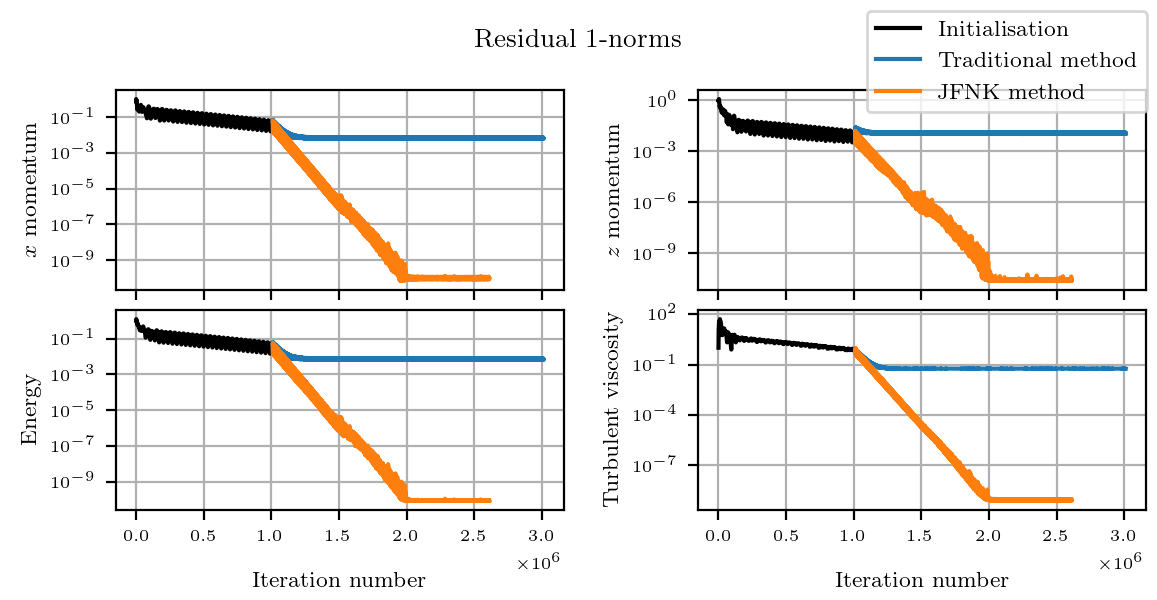
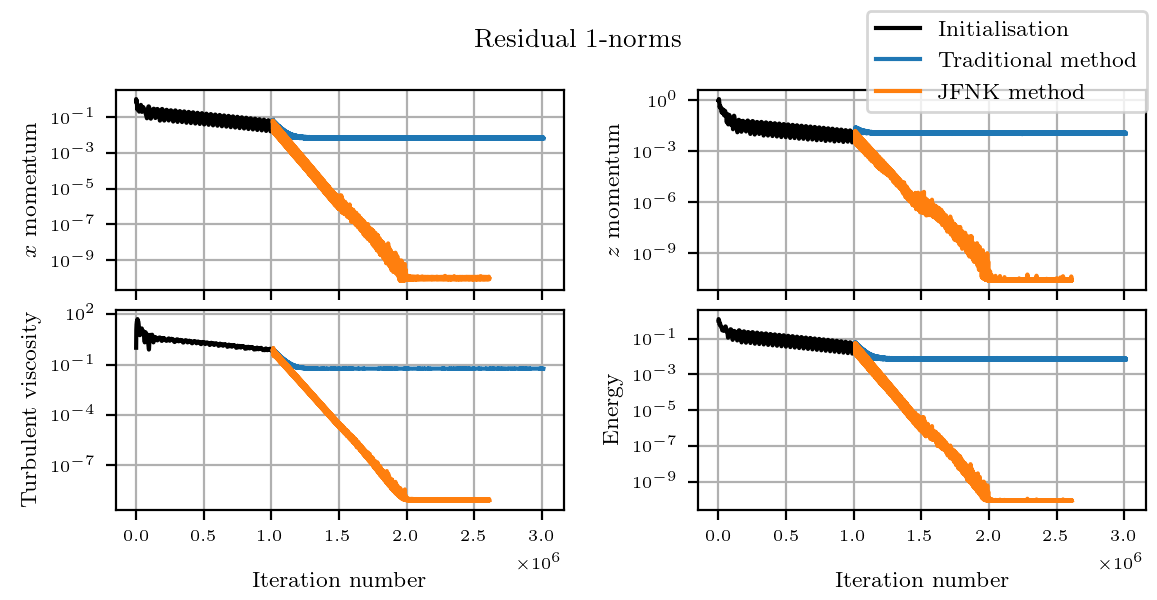
Changes y-labels

Changed region(s): [[0.0, 0.51, 0.4978, 0.84], [0.529, 0.51, 0.9957, 0.84]]

diff --git a/figures/figures_matplotlib.py b/figures/figures_matplotlib.py
@@ -763,6 +763,49 @@ def sphere_mte_residuals():
         # plt.show()
 
 
+def sphere_tv_residuals():
+    with plt.rc_context({'font.size': 8, 'xtick.labelsize': 6, 'ytick.labelsize': 6}):
+        fig = plt.figure(figsize=[5.78851, 3])
+        fig.suptitle(r"Residual 1-norms", y=0.95)
+
+        ax11 = fig.add_subplot(221)
+        ax12 = fig.add_subplot(222)
+        ax21 = fig.add_subplot(223, sharex=ax11)
+        ax22 = fig.add_subplot(224, sharex=ax12)
+
+        for ax, tag, title in zip((ax11, ax12, ax21, ax22),
+                                  ('RhoV_x', 'RhoV_y', 'RhoF2:P1:N2v_EvF2:P1:N2v', 'RhoEtot'),
+                                  ("$x$ momentum", "$y$ momentum", "$\\operatorname{N}_2$ vibrational\nenergy",
+                                   "Energy")):
+            ax.grid(True)
+            p = bibarch.HistoPlotter(ax, ('RESIDUS', 'MOYENS', tag), 'WALL', '/tmp_user/sator/pseize/SPHERE_LOBB_Tv')
+            x, y, _ = p.get('INIT/RUN_1')
+            y0 = y[0]
+            p.reset_offset('INIT/RUN_1')
+            x, y, _ = p.get('RK2/RUN_1')
+            ax.semilogy(x, np.power(10, y - y0), label='Midpoint method')
+            p.reset_offset(['INIT/RUN_1', 'INIT/RUN_2'])
+            x, y, _ = p.get('MF/RUN_1')
+            ax.semilogy(x, np.power(10, y - y0), label='JFNK method')
+            ax.set_title('')
+            ax.set_ylabel(title)
+            ax.set_xlim(-500, 5999)
+
+        ax11.tick_params(labelbottom=False)
+        ax12.tick_params(labelbottom=False)
+        ax11.set_xlabel('')
+        ax12.set_xlabel('')
+        ax21.set_xlabel('Elapsed real time (s)', labelpad=10)
+        ax22.set_xlabel('Elapsed real time (s)', labelpad=10)
+        fig.legend(*ax11.get_legend_handles_labels())
+        fig.align_ylabels([ax11, ax21])
+        fig.align_ylabels([ax12, ax22])
+
+        fig.subplots_adjust(0.11, 0.15, 0.99, 0.85, 0.30, 0.1)
+        fig.savefig('sphere_tv_residuals.png')
+        # plt.show()
+
+
 def sd_discontinuous():
     class Lagrange2D:
         def __init__(self, x, y, z):
@@ -1251,6 +1294,7 @@ if __name__ == '__main__':
     # sphere_reac_residuals()
     # sphere_mte_temperatures()
     # sphere_mte_residuals()
+    # sphere_tv_residuals()
     # sd_discontinuous()
     # sd_scheme()
     # sd_points()
